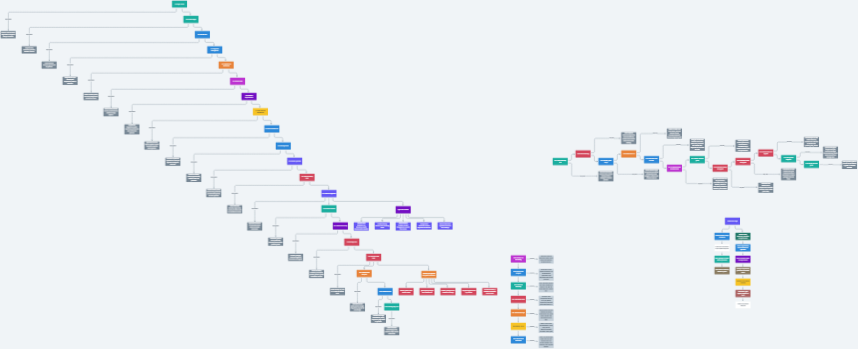
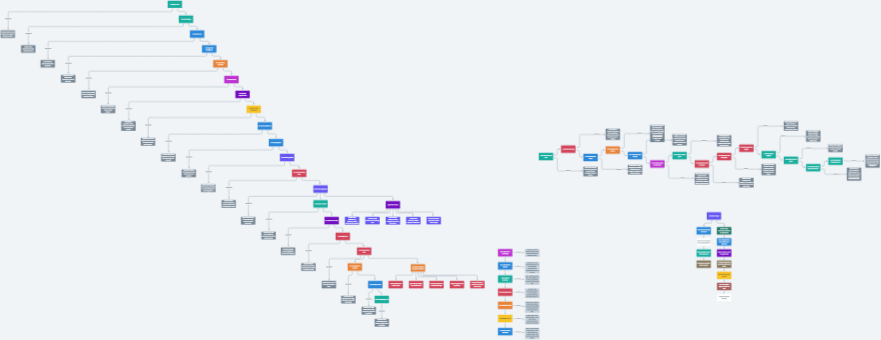
Update Whimsical factory map evidence

diff --git a/docs/maps/whimsical-board.md b/docs/maps/whimsical-board.md
@@ -9,6 +9,10 @@ Local snapshot:
 
 `docs/maps/overkill-factory-factory-10-readable-flow-snapshot.png`
 
+Hardening block snapshot:
+
+`docs/maps/overkill-factory-hardening-f27-f40-snapshot.png`
+
 ## Why This Is The Primary Map
 
 This board uses a vertical production-line spine. Each phase has its explanation
@@ -29,11 +33,12 @@ It includes:
 - Critical workers, worker-role explanations and agent misread warnings.
 - Map-reading legend for colors, side explanations and primary/lateral arrows.
 - Multi-context validation battery as the learning-loop proof surface.
-- F27-F38 operational hardening: real Codex Security, stricter gates, clean
+- F27-F40 operational hardening: real Codex Security, stricter gates, clean
   remote proof, remaining nota-10 gaps, a durable Whimsical MCP fallback,
   stricter Auditor/Quasar contracts, source-pinned Quasar runtime proof and
   dashboard ready/done, worker-style done no-bypass, real profile dispatch and
-  official Hermes patch smokes.
+  official Hermes patch smokes, product-like Quasar/Auditor proof and updated
+  Product Face proof.
 - Official-main patch compatibility: the public Hermes adapter patch applies to
   the tested official Hermes main commit and passes focused regression tests.
 
@@ -49,14 +54,14 @@ updated.
 
 The public source diagram now includes live Hermes materialization, worker
 dependency graph, negative/positive done enforcement, the multi-context factory
-battery, the F27-F38 hardening block and the same map-reading legend added to
+battery, the F27-F40 hardening block and the same map-reading legend added to
 the editable Whimsical board. The editable board was updated through the local
 Whimsical MCP and now contains three clean official flowchart blocks plus one
 legend block:
 
 - `Lki1eW`: main F0-F19 factory spine;
 - `8kQkhJ`: F20-F26 hardening bridge;
-- `AyHQAj`: F27-F38 operational hardening block.
+- `AyHQAj`: F27-F40 operational hardening block.
 
 Important current IDs in `AyHQAj`:
 
@@ -67,6 +72,10 @@ Important current IDs in `AyHQAj`:
 - F37 description id: `2YiC8u`.
 - F38 node id: `8emoZb`;
 - F38 description id: `YKnVtt`.
+- F39 node id: `5AHbk4`;
+- F39 description id: `8hNjNF`.
+- F40 node id: `GMiHHi`;
+- F40 description id: `SePcVQ`.
 - Map legend node id: `GBGPXU`.
 
 If the editable Whimsical board is updated manually, mirror those additions
@@ -80,14 +89,21 @@ The main F0-F19 spine was later color-coded with `flowchart_edit`, preserving
 node IDs and connectors while making phases, explanations, workers and warnings
 visually distinguishable. A separate map-reading legend was then added with
 `flowchart_create` so users can understand colors, side explanations and
-primary/lateral arrows without chat context.
+primary/lateral arrows without chat context. The F27-F38 hardening block was
+then extended to F40 with `flowchart_edit` after product-like Quasar/Auditor and
+updated Product Face evidence passed.
 
 Latest MCP validation:
 
 - `python scripts/whimsical_mcp.py health` returned `PASS` with 34 tools.
 - The live Desktop MCP accepted direct JSON-RPC calls even when native Codex
   tool namespaces were not exposed.
-- The public snapshot was refreshed through the MCP after the legend update.
+- The editable board was updated through `flowchart_edit` and verified with
+  `board-read --grep "F39" --grep "F40"`.
+- The public snapshot was refreshed through the MCP after the F39/F40 update.
+- A dedicated F27-F40 hardening snapshot was generated through the MCP because
+  the full-board snapshot is useful for orientation but too compressed for
+  detailed review.
 
 ## Durable MCP Fallback
 

diff --git a/docs/validation/heavy-validation-results.md b/docs/validation/heavy-validation-results.md
@@ -225,8 +225,9 @@ checks.
   The factory can inspect/read/edit the board through the local MCP endpoint
   even when native MCP tools are not exposed in a future Codex session.
 - Whimsical Desktop MCP was exercised live through JSON-RPC, with health,
-  board read, flowchart creation and snapshot capture passing. The public map
-  snapshot was refreshed after adding the map-reading legend.
+  board read, flowchart edit and snapshot capture passing. The editable board
+  now includes F39 Quasar/Auditor product-like PASS and F40 updated Product Face
+  PASS, and the public map snapshot was refreshed after that update.
 - Auditor result handling is stricter: `code_audit` now requires corpus count,
   checklists 01-07, known-vector coverage, instruction matrix and state model.
   The worker-result validator now blocks shallow real Auditor PASS records.